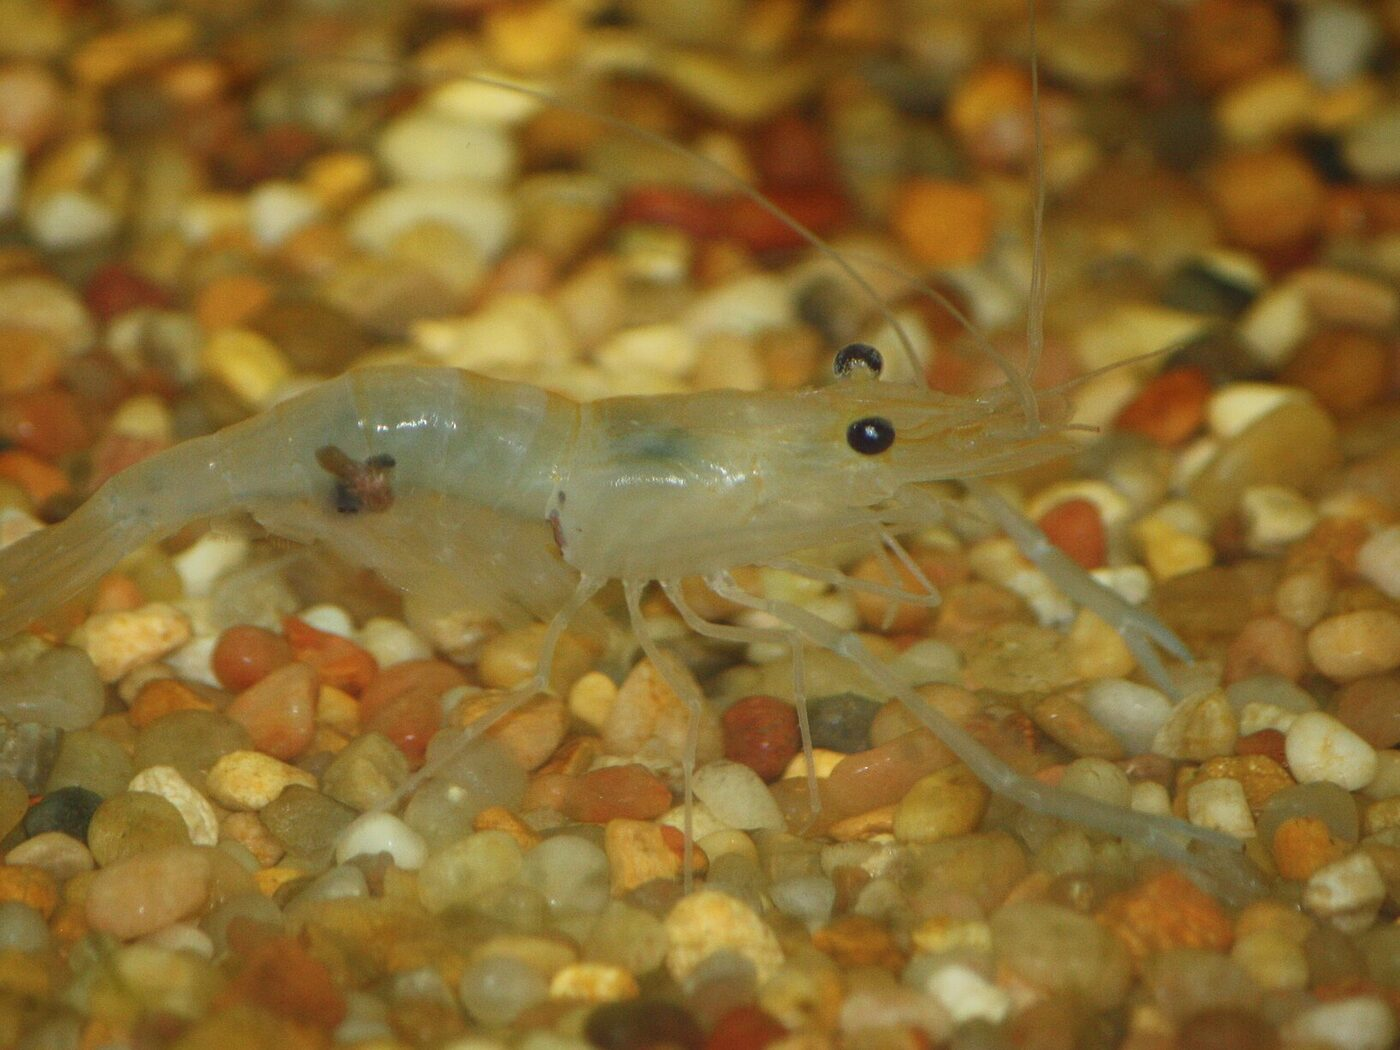
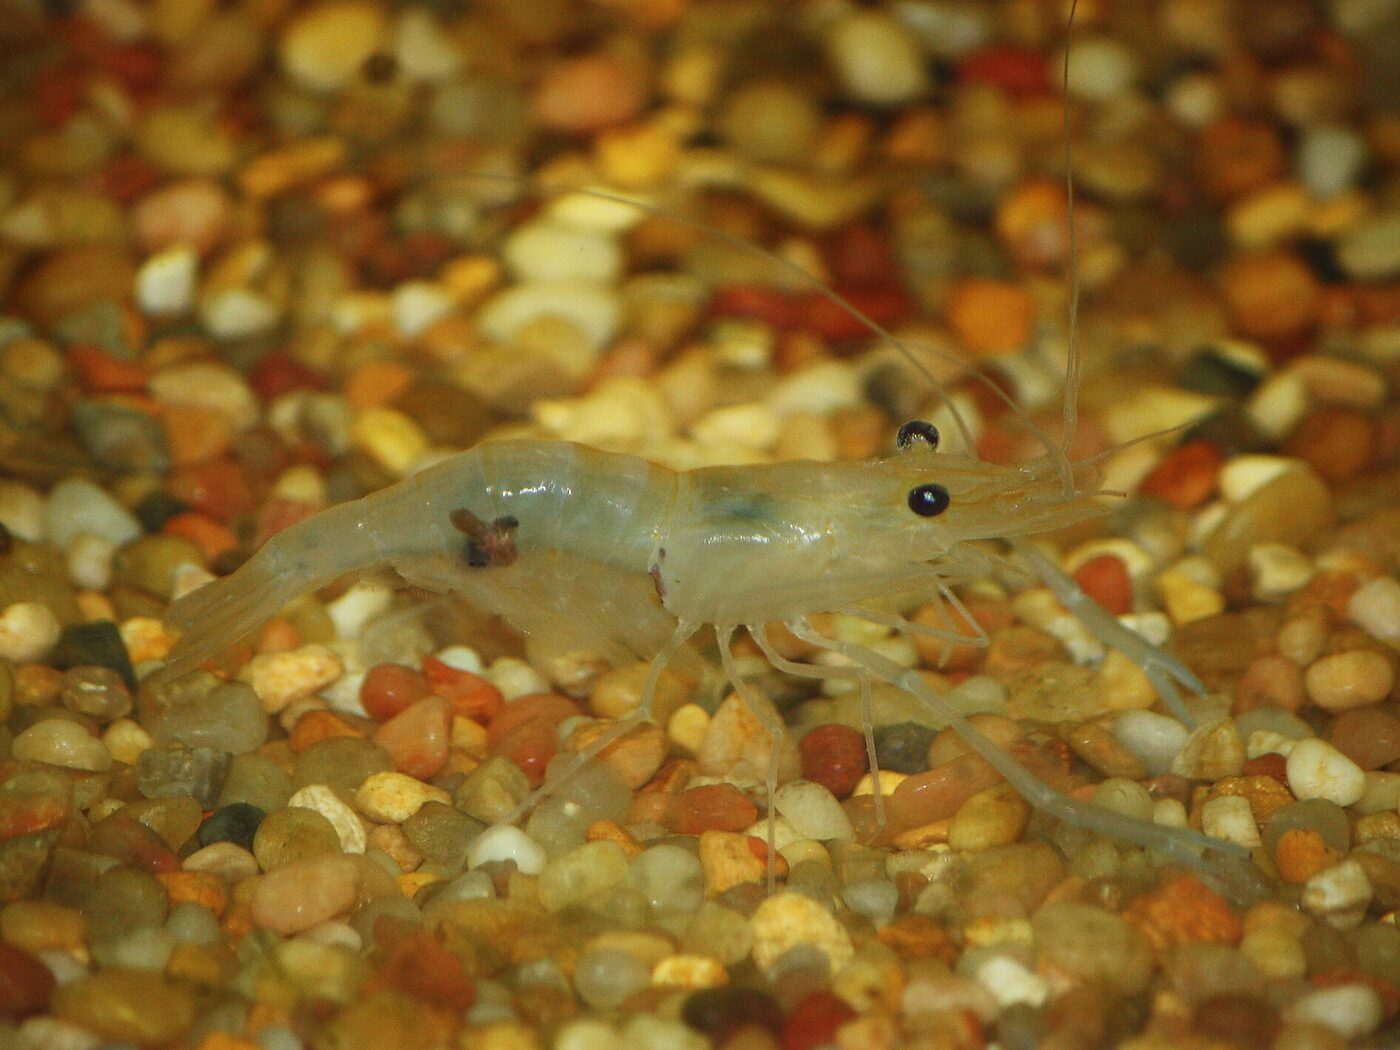
Owner photo review of V25 (V26): crowntail, veiltail, vampire, snowball
Fills the male crowntail (Betta-Online, Flickr, CC BY 2.0, 2707x1900
original) and snowball shrimp (Commons, upscaled, not launch-eligible).
Replaces the veiltail (a Cambodian veiltail on a plain background), the
vampire shrimp (two shrimp on pale gravel, not one in the dark) and
recrops the whisker shrimp, whose V25 crop had cut its tail off.
Removes the snakeskin gourami photo: the only one was a caught fish on a
tiled floor, and the owner judged the placeholder better.

Searched Commons, Openverse and iNaturalist (commercial licences only).
liveaquaria.com was used only as a visual reference, because its photos
are the retailer's own. Seven gaps remain, with the reasons in
species/CREDITS.md. CatalogApiTest 39/39. In k3d, v26 was applied, the
files were served byte-identical and the snakeskin URL now returns 404.

diff --git a/services/catalog-service/src/test/java/com/aquashop/catalog/CatalogApiTest.java b/services/catalog-service/src/test/java/com/aquashop/catalog/CatalogApiTest.java
@@ -329,10 +329,12 @@ class CatalogApiTest {
             "anubias-hastifolia", "dwarf-baby-tears", "green-myrio", "hygrophila-araguaia",
             "kleiner-bar-sword", "ludwigia-peruensis", "oriental-sword", "red-flame-sword",
             "red-pearl-sword", "red-rubin-sword", "rotala-nanjenshan", "ruffle-sword",
-            // V25's nine: no licensed photograph of the right species AND form.
-            "betta-male-crowntail", "emerald-betta", "thick-lipped-gourami",
-            "bloody-mary-shrimp", "black-rose-shrimp", "green-jade-shrimp",
-            "chocolate-shrimp", "snowball-shrimp", "blue-mystery-snail");
+            // V25/V26: no licensed photograph of the right species AND form.
+            "emerald-betta", "thick-lipped-gourami", "bloody-mary-shrimp",
+            "black-rose-shrimp", "green-jade-shrimp", "chocolate-shrimp",
+            "blue-mystery-snail",
+            // V26: the only photo was a dead fish on a floor; the owner chose none.
+            "snakeskin-gourami");
     }
 
     /**

diff --git a/services/storefront/public/species/CREDITS.md b/services/storefront/public/species/CREDITS.md
@@ -502,7 +502,7 @@ brown *Pomacea* only; no blue).
 |---|---|---|---|---|
 | `betta-male-plakat.jpg` | *Betta splendens*, halfmoon plakat | Wikimedia Commons, [File:DVJ Betta splendens 003.jpg](https://commons.wikimedia.org/wiki/File:DVJ_Betta_splendens_003.jpg), Daniella Vereeken | CC BY 2.0 | ✅ yes — caption names the form (halfmoon plakat, male), which is the short-finned plakat sold. Source 1920x1277, crop 1702x1276+13+0 → 1400x1050 |
 | `betta-male-double-tail.jpg` | *Betta splendens*, double tail | Wikimedia Commons, [File:Betta splendens male doubletail.jpg](https://commons.wikimedia.org/wiki/File:Betta_splendens_male_doubletail.jpg), Pharaoh Hound | CC BY-SA 3.0 | ✅ yes — caption: "a male metallic double-tail Betta"; the split caudal is visible. Studio shot on white. Source 1500x1100, crop 1466x1099+17+0 → 1400x1050 |
-| `betta-male-veiltail.jpg` | *Betta splendens*, veiltail | Wikimedia Commons, [File:A pruple veiltail Betta.jpg](https://commons.wikimedia.org/wiki/File:A_pruple_veiltail_Betta.jpg), Saptak Mandal | CC BY-SA 4.0 | ✅ yes — caption names the form ("a purple veiltail Betta"). The fish is small in a 4096×3072 frame; cropped 2048×1536 around it, so detail is fine but the plant foreground takes the lower third. Source 4096x3072, crop 2048x1536+696+614 → 1400x1050 |
+| `betta-male-veiltail.jpg` | *Betta splendens*, veiltail, 'Cambodian' colour | Wikimedia Commons, [File:Betta splendens pale.jpg](https://commons.wikimedia.org/wiki/File:Betta_splendens_pale.jpg), Pharaoh Hound | CC BY 2.5 | ✅ yes — replaced 30 Sep 2026 at owner request (the old one showed a small fish in a purple-lit tank). Caption: "a pale Cambodian male Betta". **Caveat:** the caption does not say "veiltail"; the form is read from the photo (a single, long, drooping caudal and trailing anal fin). Source 1502×940 is too wide for 4:3 without cutting the tail, so the canvas was **extended 94 px top and 93 px bottom in the source's own flat background colours** (navy above, black below), then scaled to 1400×1050. No part of the fish is synthetic |
 | `betta-female.jpg` | *Betta splendens*, female | Wikimedia Commons, [File:Betta hembra.jpg](https://commons.wikimedia.org/wiki/File:Betta_hembra.jpg), BETTAS ZERO | CC BY-SA 4.0 | ✅ yes — caption "pez betta splendens femenino". Author field is a breeder name (BETTAS ZERO), as given on Commons. Source 1920x1440, crop 1632x1224+144+136 → 1400x1050 |
 | `peaceful-betta.jpg` | *Betta imbellis* | Wikimedia Commons, [File:Betta imbellis (male) 20100512 2.jpg](https://commons.wikimedia.org/wiki/File:Betta_imbellis_%28male%29_20100512_2.jpg), DefenderRegina | CC BY-SA 3.0 | ✅ yes — caption names the species and sex (male). Source 2211x1658, crop 2210x1657+0+0 → 1400x1050 |
 | `mahachai-betta.jpg` | *Betta mahachaiensis* | Wikimedia Commons, [File:Betta mahachaiensis Spadetail.jpg](https://commons.wikimedia.org/wiki/File:Betta_mahachaiensis_Spadetail.jpg), StarboundBettas | CC BY-SA 4.0 | ✅ yes — **caveat:** the caption says the fish is the "Spadetail" breeding form of *B. mahachaiensis*, a line with a longer tail than the wild-type fish most shops sell under this name. Source 2092x1716, crop 1464x1098+376+257 → 1400x1050 |
@@ -511,7 +511,7 @@ brown *Pomacea* only; no blue).
 | `wine-red-betta.jpg` | *Betta coccina* | Wikimedia Commons, [File:Betta coccina "Jambi-Sumatra".JPG](https://commons.wikimedia.org/wiki/File:Betta_coccina_%22Jambi-Sumatra%22.JPG), Parostoteles | CC BY-SA 3.0 | ✅ yes — caption: male *B. coccina* from Jambi, Sumatra. Source 1920x1280, crop 1706x1279+214+0 → 1400x1050 |
 | `banded-gourami.jpg` | *Trichogaster fasciata* | Wikimedia Commons, [File:Trichogaster fasciata 179813241.jpg](https://commons.wikimedia.org/wiki/File:Trichogaster_fasciata_179813241.jpg), Sandipan Das | CC BY 4.0 | ✅ yes — species in the caption. The crop starts at x=140 to leave out a photographer's stamp in the corner; the whole fish is still in frame. Source 2048x1269, crop 1692x1269+140+0 → 1400x1050 |
 | `moonlight-gourami.jpg` | *Trichopodus microlepis* | Wikimedia Commons, [File:Trichopodus microlepis - Karlsruhe Zoo 01.jpg](https://commons.wikimedia.org/wiki/File:Trichopodus_microlepis_-_Karlsruhe_Zoo_01.jpg), H. Zell | CC BY-SA 3.0 | ✅ yes — species in the caption; public-aquarium specimen (Karlsruhe Zoo). Source 1920x1270, crop 1693x1269+113+0 → 1400x1050 |
-| `snakeskin-gourami.jpg` | *Trichopodus pectoralis* | Wikimedia Commons, [File:Snakeskin gourami.jpg](https://commons.wikimedia.org/wiki/File:Snakeskin_gourami.jpg), Bochr | CC BY-SA 3.0 | ⚠ licence yes, **not launch-eligible** — the fish was caught in a rice field and is photographed out of water on a tiled floor beside a ruler. Right species and a male, but it is a dead or dying fish and a poor sales image. It is the only lateral photo above the bar; the others show it as food. Replace with the shop's own photograph. Source 1920x1441, crop 1920x1440+0+0 → 1400x1050 |
+| ~~`snakeskin-gourami.jpg`~~ | *Trichopodus pectoralis* | *removed 30 Sep 2026 (V26)* | — | The only lateral photo of the species on Commons (File:Snakeskin gourami.jpg, Bochr, CC BY-SA 3.0) showed a caught fish lying on a tiled floor beside a ruler. The owner judged it worse than the placeholder, so the file is deleted and the key is NULL. Openverse and iNaturalist (4 commercial-licence photos, all fish on bark or in nets) found nothing better |
 | `croaking-gourami.jpg` | *Trichopsis vittata* | Wikimedia Commons, [File:Trichopsis vittata 2.jpg](https://commons.wikimedia.org/wiki/File:Trichopsis_vittata_2.jpg), Ahsan_al_hidayat | CC BY-SA 3.0 | ✅ yes — **caveat:** the caption gives only a place (Lampung, Indonesia); the species comes from the file title and category. The fish matches: long pointed caudal and a dark lateral stripe. Source 1920x1440, crop 1536x1152+192+28 → 1400x1050 |
 | `giant-gourami.jpg` | *Osphronemus goramy* | Wikimedia Commons, [File:Osphronemus goramy 2008 G1.jpg](https://commons.wikimedia.org/wiki/File:Osphronemus_goramy_2008_G1.jpg), George Chernilevsky | Public domain | ✅ yes — public domain. **Caveat:** an adult in a public aquarium; the product is a juvenile, which is plainer and has a pointed head. Source 2100x1430, crop 1906x1429+97+0 → 1400x1050 |
 | `orange-sakura-shrimp.jpg` | *Neocaridina davidi*, orange sakura | Wikimedia Commons, [File:Беременная креветка "Оранжевая вишня".jpg](https://commons.wikimedia.org/wiki/File:%D0%91%D0%B5%D1%80%D0%B5%D0%BC%D0%B5%D0%BD%D0%BD%D0%B0%D1%8F_%D0%BA%D1%80%D0%B5%D0%B2%D0%B5%D1%82%D0%BA%D0%B0_%22%D0%9E%D1%80%D0%B0%D0%BD%D0%B6%D0%B5%D0%B2%D0%B0%D1%8F_%D0%B2%D0%B8%D1%88%D0%BD%D1%8F%22.jpg), Dack9 | CC BY 4.0 | ⚠ licence yes, **not launch-eligible** — **upscaled** 1.39×: source 1000×647, cropped 862×646 and enlarged to 1200×900. Caption: "Orange Sakura with eggs"; subject and framing are right. Source 1000x647, crop 862x646+19+0 → 1200x900 |
@@ -521,6 +521,30 @@ brown *Pomacea* only; no blue).
 | `blue-bolt-shrimp.jpg` | *Caridina cantonensis*, blue bolt | Wikimedia Commons, [File:Caridina-cf-cantonensis-blue-bolt.jpg](https://commons.wikimedia.org/wiki/File:Caridina-cf-cantonensis-blue-bolt.jpg), Marcus Hafermann | CC BY-SA 3.0 | ✅ yes — caption names the "Blue Bolt" line. Source 1378×917, cropped to 1220×915 and not resized, just above the 1200×900 floor. Source 1378x917, crop 1222x916+78+0 → 1220x915 |
 | `orange-eyed-blue-tiger-shrimp.jpg` | *Caridina* sp., blue tiger | Wikimedia Commons, [File:Caridina-cf-cantonensis-blue-tiger.jpg](https://commons.wikimedia.org/wiki/File:Caridina-cf-cantonensis-blue-tiger.jpg), DirkBlankenhaus | CC BY-SA 3.0 | ⚠ licence yes, **not launch-eligible** — **upscaled** 1.3×: source 1024×692. The caption says "blue tiger... blue colour and orange eyes", which is how the OEBT is sold. It files the shrimp under *C.* cf. *cantonensis*, whereas V24 profiles it as *C. mariae*; the tiger-shrimp taxonomy is unsettled. Source 1024x692, crop 922x691+102+0 → 1200x900 |
 | `bamboo-shrimp.jpg` | *Atyopsis moluccensis* | Wikimedia Commons, [File:Atyopsis moluccensis.jpg](https://commons.wikimedia.org/wiki/File:Atyopsis_moluccensis.jpg), Kacper Aleksander | CC BY-SA 4.0 | ✅ yes — species in the caption, full lateral view. Source 1920x1280, crop 1706x1279+145+0 → 1400x1050 |
-| `vampire-shrimp.jpg` | *Atya gabonensis* | Wikimedia Commons, [File:Atya gabonensis.JPG](https://commons.wikimedia.org/wiki/File:Atya_gabonensis.JPG), Citron | CC BY-SA 3.0 | ✅ yes — species in the caption. Dim aquarium light; the whole animal is in frame. Source 1920x1440, crop 1920x1440+0+0 → 1400x1050 |
-| `indian-whisker-shrimp.jpg` | *Macrobrachium lamarrei* | Wikimedia Commons, [File:IndianWhiskerShrimp MacrobrachiumLamarrei.jpg](https://commons.wikimedia.org/wiki/File:IndianWhiskerShrimp_MacrobrachiumLamarrei.jpg), Ltshears | CC BY-SA 3.0 | ✅ yes — caption: *Macrobrachium lamarrei* at Cincinnati Zoo. Translucent shrimp on gravel, so it reads as low contrast. Source 1920x1419, crop 1632x1224+240+168 → 1400x1050 |
+| `vampire-shrimp.jpg` | *Atya gabonensis* | Wikimedia Commons, [File:Atyagabonensis.jpg](https://commons.wikimedia.org/wiki/File:Atyagabonensis.jpg), Citron | CC BY-SA 3.0 | ✅ yes — replaced 30 Sep 2026 at owner request (the old one was dim). Caption: two *A. gabonensis*, blue and gold colour forms, on pale gravel. Source 3456×2592, cropped 2600×1950+380+642 → 1400×1050; parts of two barbs show at the top edge |
+| `indian-whisker-shrimp.jpg` | *Macrobrachium lamarrei* | Wikimedia Commons, [File:IndianWhiskerShrimp MacrobrachiumLamarrei.jpg](https://commons.wikimedia.org/wiki/File:IndianWhiskerShrimp_MacrobrachiumLamarrei.jpg), Ltshears | CC BY-SA 3.0 | ✅ yes — caption: *M. lamarrei* at Cincinnati Zoo. **Recropped 30 Sep 2026** after the owner found it unclear: the V25 crop cut the tail off at the left edge. Now the full width of Commons' 1920 px rendering (1892×1419+0+0 → 1400×1050) with a light contrast curve and unsharp mask. It is still a translucent shrimp on busy gravel, and no better licensed photo of the species exists (Openverse and iNaturalist searched: one commercial-licence iNat record, a blurry wild shot in Nepal) |
 | `horned-nerite-snail.jpg` | *Clithon corona* | Wikimedia Commons, [File:Clithon corona, Horned nerite snail from the Philippines 04.jpg](https://commons.wikimedia.org/wiki/File:Clithon_corona%2C_Horned_nerite_snail_from_the_Philippines_04.jpg), Obsidian Soul | CC0 | ✅ yes — CC0, caption names the species. The spines are clearly visible; cropped 1814×1360 from a 4032×3024 source. Source 4032x3024, crop 1814x1360+1310+680 → 1400x1050 |
+
+## Owner review of V25, 30 September 2026 (V26)
+
+The owner looked at V25 on the site and asked for better photos of the unclear ones and for the gaps
+to be filled. Searched this time: Commons, **Openverse** (Flickr and other CC collections; anonymous
+requests are capped at 20 results a page) and **iNaturalist** (commercial licences only: cc-by,
+cc-by-sa, cc0). Flickr originals were read from the photo's `/sizes/o/` page, and the licence from
+the same page. The owner also linked liveaquaria.com's betta, gourami and invertebrate pages. Those
+are the retailer's own copyrighted product photos, so per `README.md` they were used only as a visual
+reference for what each colour line should look like, and no file was taken from them.
+
+**Still without a photo:** `emerald-betta` (Commons has only a hybrid; iNaturalist has 20 records,
+none under a commercial licence), `thick-lipped-gourami` (22 iNat records; the only two with a
+commercial licence are "casual" grade and show what looks like a different gourami),
+`bloody-mary-shrimp`, `black-rose-shrimp`, `green-jade-shrimp` and `chocolate-shrimp` (no CC photo
+anywhere names these lines; the one "var. green" Flickr photo shows a brown translucent shrimp, and
+every "chocolate" hit was a wild-type brown or a dark "choco black"), `blue-mystery-snail` (91
+Openverse results, none blue), and now `snakeskin-gourami` (above). The shop's own photographs are
+the way to close these.
+
+| File | Subject | Source | Licence | Cleared for commercial use |
+|---|---|---|---|---|
+| `betta-male-crowntail.jpg` | *Betta splendens*, male crowntail | Flickr, [CT Multicolour M - Betta-Online](https://www.flickr.com/photos/14805366@N03/1549644007/), Daniella Vereeken | CC BY 2.0 | ✅ yes — title names the form and sex (CT = crowntail, M = male); the same breeder series as `betta-male-plakat.jpg`. Original 2707×1900, cropped 2533×1900 around the fish → 1400×1050 |
+| `snowball-shrimp.jpg` | *Neocaridina* cf. *zhangjiajiensis*, "white pearl" | Wikimedia Commons, [File:Neocaridina-cf-zhangjiajiensis-sp-white-pearl.jpg](https://commons.wikimedia.org/wiki/File:Neocaridina-cf-zhangjiajiensis-sp-white-pearl.jpg), DirkBlankenhaus | CC BY-SA 3.0 | ⚠ licence yes, **not launch-eligible** — **upscaled** 1.3× (source 1024×693, cropped 924×693 → 1200×900). **Caveat:** the trade sells white Neocaridina as "snowball" and "white pearl" interchangeably, and the snowball's species is itself disputed (*N. davidi* vs *N.* cf. *zhangjiajiensis*); V24 files it under *N. davidi*. It is a white Neocaridina carrying eggs, which is what the snowball is named for |
